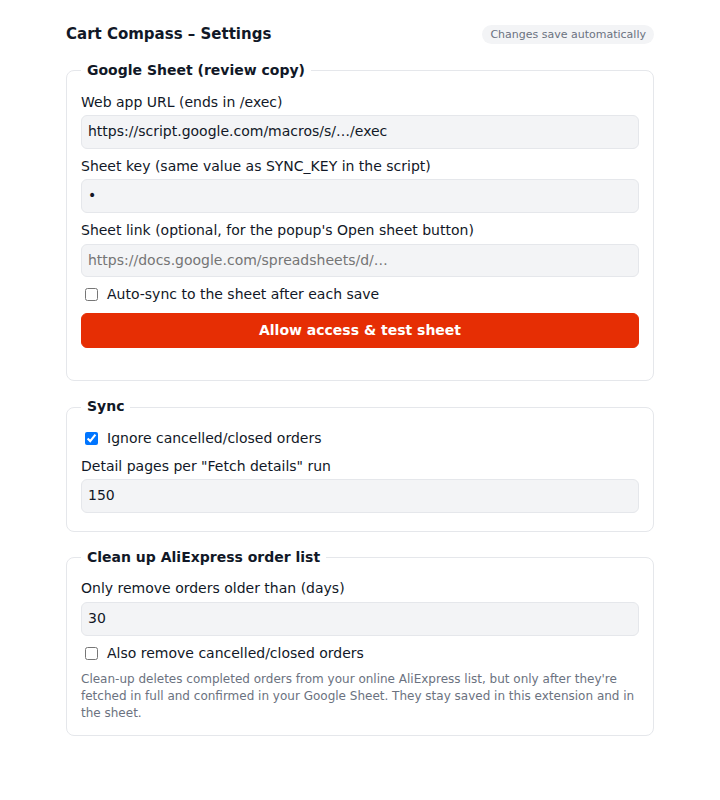
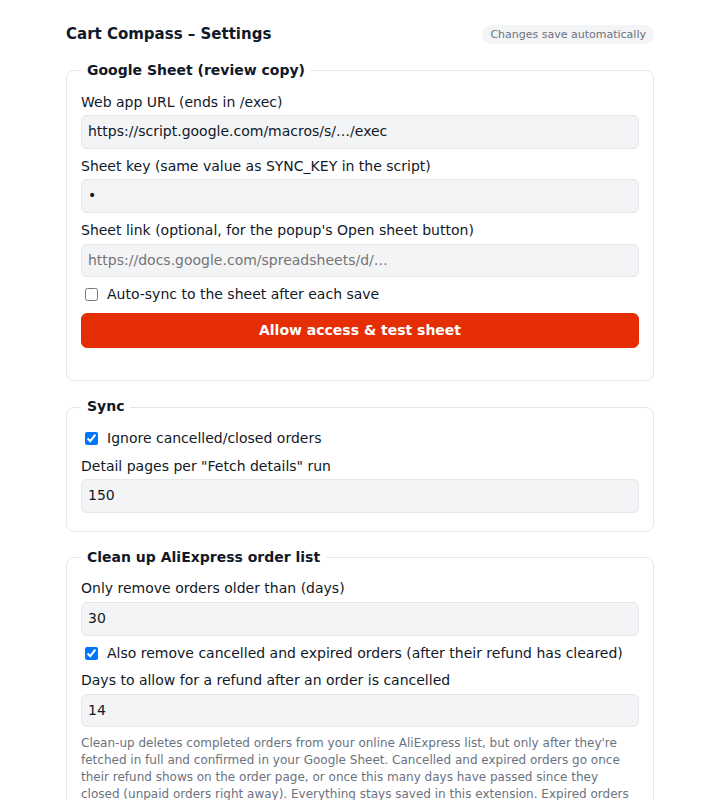
Docs: step-by-step Google Sheet setup guide
Walks through creating the sheet, setting the sync key, deploying the
web app (including Google's unverified-app screen), connecting the
extension, updating the script and troubleshooting. Also updates the
README feature and popup tables for 1.1 and the settings screenshot.

Changed region(s): [[0.0917, 0.8125, 0.8861, 1.0]]

diff --git a/tools/google-sheet-sync/README.md b/tools/google-sheet-sync/README.md
@@ -1,6 +1,8 @@
-# Google Sheet review copy
+# Google Sheet sync
 
-Use this to keep a live, reviewable copy of your AliExpress orders in Google Sheets. Each sync rewrites three tabs:
+Keep a live copy of your AliExpress orders in a Google Sheet you own. The sheet runs a small Apps Script that receives your orders from the extension. Nothing passes through anyone else's server.
+
+Each sync rewrites three tabs:
 
 | Tab | One row per | Columns worth checking |
 |---|---|---|
@@ -8,31 +10,73 @@ Use this to keep a live, reviewable copy of your AliExpress orders in Google She
 | **Items** | product line | thumbnail, title, variant, quantity, unit price, product ID, and **timesOrdered** (how many orders contain the same product; anything above 1 is a re-order) |
 | **Sync log** | sync | received / upserted / removed counts |
 
-Cancelled/closed orders are left out. If an order is cancelled after it already reached the sheet, the next sync removes it.
+Cancelled and closed orders are left out. If an order is cancelled after it reached the sheet, the next sync removes it. Other tabs in the spreadsheet, such as `Sheet1` or your own notes, are never touched.
+
+The sheet also serves as your backup. Order-list clean-up only removes a completed order from AliExpress once this sheet confirms it has it.
 
 ## Setup (about 5 minutes)
 
-1. Create a new Google Sheet, for example "AliExpress Orders (review)".
-2. **Extensions → Apps Script**. Delete the starter code, paste in all of [`Code.gs`](Code.gs), and save.
-3. Optional: in the Apps Script editor, pick **setupSheets** in the function dropdown and click **Run**. This creates the Orders / Items / Sync log tabs, headers and formats right away. Otherwise the first sync creates them. Other tabs, such as `Sheet1`, are left alone.
-4. In the script, change `SYNC_KEY` to a long random string and save. (Alternatively, set it under Project Settings → Script properties → `SYNC_KEY`.)
-5. **Deploy → New deployment**. Click the gear and pick **Web app**. Set *Execute as*: **Me** and *Who has access*: **Anyone**, then click **Deploy**. Authorize when asked. Copy the **Web app URL** (it ends in `/exec`).
-   *"Anyone" lets the extension reach the URL. The `SYNC_KEY` check stops anyone else from writing to the sheet.*
-6. In the extension popup, open **Settings** and fill in:
-   - (Settings now open as their own page: popup → **⚙ Settings**. Fields save as you type.)
-   - **Google Sheet web app URL**: the `/exec` URL.
-   - **Google Sheet key**: the same `SYNC_KEY`.
-   - **Google Sheet link** (optional): the normal sheet URL, so the **Open sheet** button works.
-   - Optionally tick **Auto-sync to the sheet after each save**.
+### 1. Create the sheet and add the script
 
-   Click **Save** and approve the permission prompt for `script.google.com`.
-7. Click **Sync to Google Sheet**.
+1. Create a new Google Sheet, for example "AliExpress Orders".
+2. Open **Extensions → Apps Script**. Delete the starter code, paste in all of [`Code.gs`](Code.gs), and click **Save** (💾).
 
-If you edit `Code.gs` later, go to **Deploy → Manage deployments → Edit → Version: New version**. Otherwise the URL keeps running the old code.
+### 2. Set your sync key
+
+The sync key is a password that only the extension and your script know. Without it, nobody else can write to your sheet, even if they find its web address.
+
+1. Make up a long random string, at least 20 characters, with letters and numbers. A password manager's generator works well. Don't reuse a real password.
+2. Put it in the script, either way:
+   - **Simplest:** at the top of the script, replace `change-me-to-a-long-random-string` in `var SYNC_KEY = '…';` with your key, then save.
+   - **Keeps the key out of the code:** open **Project Settings** (⚙ in the left bar). Under **Script properties**, add a property named `SYNC_KEY` with your key as the value. A script property takes priority over the value in the code.
+3. Keep the key handy for step 4.
+
+### 3. Deploy the script as a web app
+
+1. Optional: pick **setupSheets** in the function dropdown at the top and click **Run**. This creates the tabs, headers and formatting right away. Otherwise the first sync creates them.
+2. Click **Deploy → New deployment**. Click the ⚙ next to *Select type* and choose **Web app**.
+3. Set **Execute as: Me** and **Who has access: Anyone**, then click **Deploy**.
+4. Google asks you to authorize the script, which only reads and writes this spreadsheet:
+   1. Click **Authorize access** and choose your account.
+   2. If you see *"Google hasn't verified this app"*, that's expected for a script you wrote yourself. Click **Advanced → Go to (your project name) (unsafe)**, then **Allow**.
+5. Copy the **Web app URL**. It ends in `/exec`.
+
+*Why "Anyone"?* The extension has to reach the URL without signing in to Google. The sync key is what protects it: requests without the right key are refused.
+
+### 4. Connect the extension
+
+1. In the popup, click **⚙ Settings**. Changes save as you type.
+2. Fill in the **Google Sheet** section:
+
+   | Field | What to enter |
+   |---|---|
+   | **Web app URL (ends in /exec)** | The URL from step 3. |
+   | **Sheet key** | The same key as `SYNC_KEY`. It's stored only in this browser, shown masked, and never included in exports. |
+   | **Sheet link** *(optional)* | The normal address of your spreadsheet, so the popup's **Open sheet** button works. |
+   | **Auto-sync to the sheet after each save** *(optional)* | Updates the sheet a few seconds after new orders are saved. |
+
+3. Click **Allow access & test sheet**. Chrome asks to let the extension reach `script.google.com`; click **Allow**. You should see *"✓ Sheet reachable and key accepted."*
+4. In the popup, click **Sync to Google Sheet**.
+
+## Updating the script
+
+When a new version of Cart Compass changes `Code.gs` (the changelog says so), paste the new file over the old one, save, and then:
+
+**Deploy → Manage deployments → ✏ Edit → Version: New version → Deploy.**
+
+The web app URL stays the same. If you skip this step, the URL keeps running the old code.
+
+## Changing the key
+
+Change `SYNC_KEY` in the script or in Script properties, deploy a new version as described above, then enter the new key in the extension's settings.
 
 ## Troubleshooting
 
-- **"Sheet did not return JSON"**: the deployment access isn't set to *Anyone*, or the URL isn't the `/exec` one.
-- **"Wrong sheet key"**: the key in the extension doesn't match `SYNC_KEY`.
-- **"Set SYNC_KEY in the Apps Script first"**: the placeholder key was never changed.
-- **"The Google Sheet script is out of date"** (from *Find orders to remove*): the clean-up check needs version 0.7.0 or later of `Code.gs`. Paste the latest file and deploy a **new version** as described above.
+| Message | Fix |
+|---|---|
+| **Sheet did not return JSON** | The deployment's access isn't set to *Anyone*, or the URL isn't the one ending in `/exec`. |
+| **Wrong sheet key** | The key in the extension doesn't match `SYNC_KEY`. Check for spaces at either end. If you use a script property, that's the value that counts. |
+| **Set SYNC_KEY in the Apps Script first** | The placeholder key was never changed, or the change wasn't deployed as a new version. |
+| **The Google Sheet script is out of date** (from *Find orders to remove*) | Clean-up needs `Code.gs` from version 0.7.0 or later. Paste the latest file and deploy a new version. |
+| Chrome didn't ask for permission, or the test can't reach the sheet | Click **Allow access & test sheet** again and accept the prompt. You can also check `chrome://extensions` → Cart Compass → Details → Site access. |
+| Changes to the script have no effect | Deploy a **new version** (see *Updating the script*). Saving alone isn't enough. |

diff --git a/README.md b/README.md
@@ -22,8 +22,9 @@ Everything runs in your own browser, signed in to your own AliExpress account. T
 | 🔎 **Order details** | Opens each order's detail page in a background tab to collect full titles, unit prices, subtotal, shipping, tax ("Additional charges"), discounts and coupons, and tracking numbers. |
 | 💵 **Real cost per unit** | Works out a *landed unit cost* for each item (price plus its share of shipping and tax, minus discounts) and flags orders whose numbers don't add up (`totalsCheck`). |
 | 🚫 **Cancelled orders ignored** | Closed or cancelled orders are kept out of exports, the sheet and re-order warnings. You can turn this off. |
+| ⚠ **Expired orders flagged** | Orders AliExpress cancelled because the seller never shipped are listed in the popup with their refund status, so you can re-order. |
 | 🔁 **Re-order warnings** | On product, cart and checkout pages: *"You've ordered this before: 6 units in 2 orders, 2 still on the way"*. It also catches the **same part from a different store** by matching model/part numbers (*N16R8*, *W25Q128*, *NE555*…), and lists similar items you've bought. |
-| 🧹 **Order list clean-up** | Deletes old completed orders from your online AliExpress list once they're safely recorded in your Google Sheet, so the list and every sync stay short. The extension keeps them for re-order warnings. |
+| 🧹 **Order list clean-up** | Deletes old completed orders from your online AliExpress list once they're safely recorded in your Google Sheet, and cancelled orders once their refund is complete, so the list and every sync stay short. The extension keeps them for re-order warnings. |
 | 📊 **Google Sheet sync** | A small Apps Script turns any Google Sheet into a live copy, with Orders, Items (with thumbnails and a times-ordered counter) and Sync log tabs. |
 | 📤 **Export / import** | JSON and CSV, one row per item, with order totals on every row. |
 | 📬 **Gmail backfill** *(optional)* | An Apps Script that builds a starter order list from your AliExpress emails. |
@@ -39,7 +40,7 @@ Everything runs in your own browser, signed in to your own AliExpress account. T
 ## Install
 
 ### From the Chrome Web Store
-Install **Cart Compass** from the Chrome Web Store *(link added once the listing is live)*.
+Search for **Cart Compass** on the [Chrome Web Store](https://chromewebstore.google.com/search/Cart%20Compass) and click **Add to Chrome**. Updates install automatically.
 
 ### From a release (easiest)
 1. Download `cart-compass-vX.Y.Z.zip` from the [Releases](../../releases) page and unzip it.
@@ -78,22 +79,29 @@ Later on, **Quick sync** picks up new orders and stops as soon as it reaches ord
 | Export JSON / CSV | Downloads your orders. Cancelled orders are left out by default. |
 | Import JSON | Merges a previous export or a Gmail backfill file. |
 | Sync to Google Sheet | Pushes everything to your sheet. |
-| Find orders to remove → Remove 1 (test) → Remove all | Cleans up your online AliExpress order list (see below). |
-| ⚙ Settings | Google Sheet details, *Ignore cancelled orders*, and how many detail pages to fetch per run. |
+| Open sheet | Opens your Google Sheet (when its link is set in Settings). |
+| Find orders to remove → Remove N orders | Cleans up your online AliExpress order list (see below). The first time, **Remove 1 (test)** comes first. |
+| ⚠ Expired: Re-order / View order / Done | Shown when an order was never shipped (see below). |
+| ⚙ Settings | Google Sheet details, *Ignore cancelled orders*, detail pages per run, and clean-up options (minimum age, cancelled orders, refund wait). |
+| Troubleshooting → Copy page sample | Copies an outline of the current AliExpress page for bug reports. |
+| Troubleshooting → Restore automatic backup | Brings back your saved orders from the automatic backup. |
+| Troubleshooting → Clear local data | Deletes the orders saved in this browser (an automatic backup is kept first). |
 
 ---
 
 ## Google Sheet sync
 
+Optional, but recommended: the sheet is a backup you can read, and clean-up uses it to confirm an order is recorded before removing it from AliExpress. Setup takes about 5 minutes. The **[step-by-step guide](tools/google-sheet-sync/README.md)** covers each click, the sync key, Google's authorization screens and troubleshooting. In short:
+
 1. Create a Google Sheet. Open **Extensions → Apps Script**, replace the code with [`tools/google-sheet-sync/Code.gs`](tools/google-sheet-sync/Code.gs), and save.
-2. Change `SYNC_KEY` at the top of the script to a long random string.
+2. Set your **sync key**: replace `change-me-to-a-long-random-string` in `SYNC_KEY` at the top of the script with a long random string (or add it as a Script property named `SYNC_KEY`). This is the password between the extension and your sheet.
 3. Optional: choose **setupSheets** in the function dropdown and click **Run** to create the tabs now.
-4. **Deploy → New deployment → Web app**, with *Execute as: Me* and *Who has access: Anyone*. Copy the URL that ends in `/exec`.
-5. In the extension, open **⚙ Settings** and paste the URL and key. Click **Allow access & test sheet**, then **Sync to Google Sheet** in the popup.
+4. **Deploy → New deployment → Web app**, with *Execute as: Me* and *Who has access: Anyone*. Authorize it. Google warns that it "hasn't verified this app" because it's your own script: click **Advanced → Go to … (unsafe)**. Copy the URL that ends in `/exec`.
+5. In the extension, open **⚙ Settings** and paste the URL and the same key. Click **Allow access & test sheet** and allow access to `script.google.com`, then click **Sync to Google Sheet** in the popup.
 
 ![Settings](docs/screenshot-settings.png)
 
-"Anyone" lets the extension reach the URL. The `SYNC_KEY` check is what stops anyone else from writing to your sheet. More details and troubleshooting are in [`tools/google-sheet-sync/README.md`](tools/google-sheet-sync/README.md).
+"Anyone" lets the extension reach the URL. The `SYNC_KEY` check is what stops anyone else from writing to your sheet. The key is stored only in your browser, shown masked, and never included in exports. If you later paste a newer `Code.gs`, deploy it as a **new version** (Deploy → Manage deployments → Edit → New version), or the URL keeps running the old code.
 
 **Tabs:**
 - **Orders:** status, store, item count, units, items subtotal, subtotal, shipping, tax, discount, total, `totalsCheck` (ok/mismatch), tracking, link.
